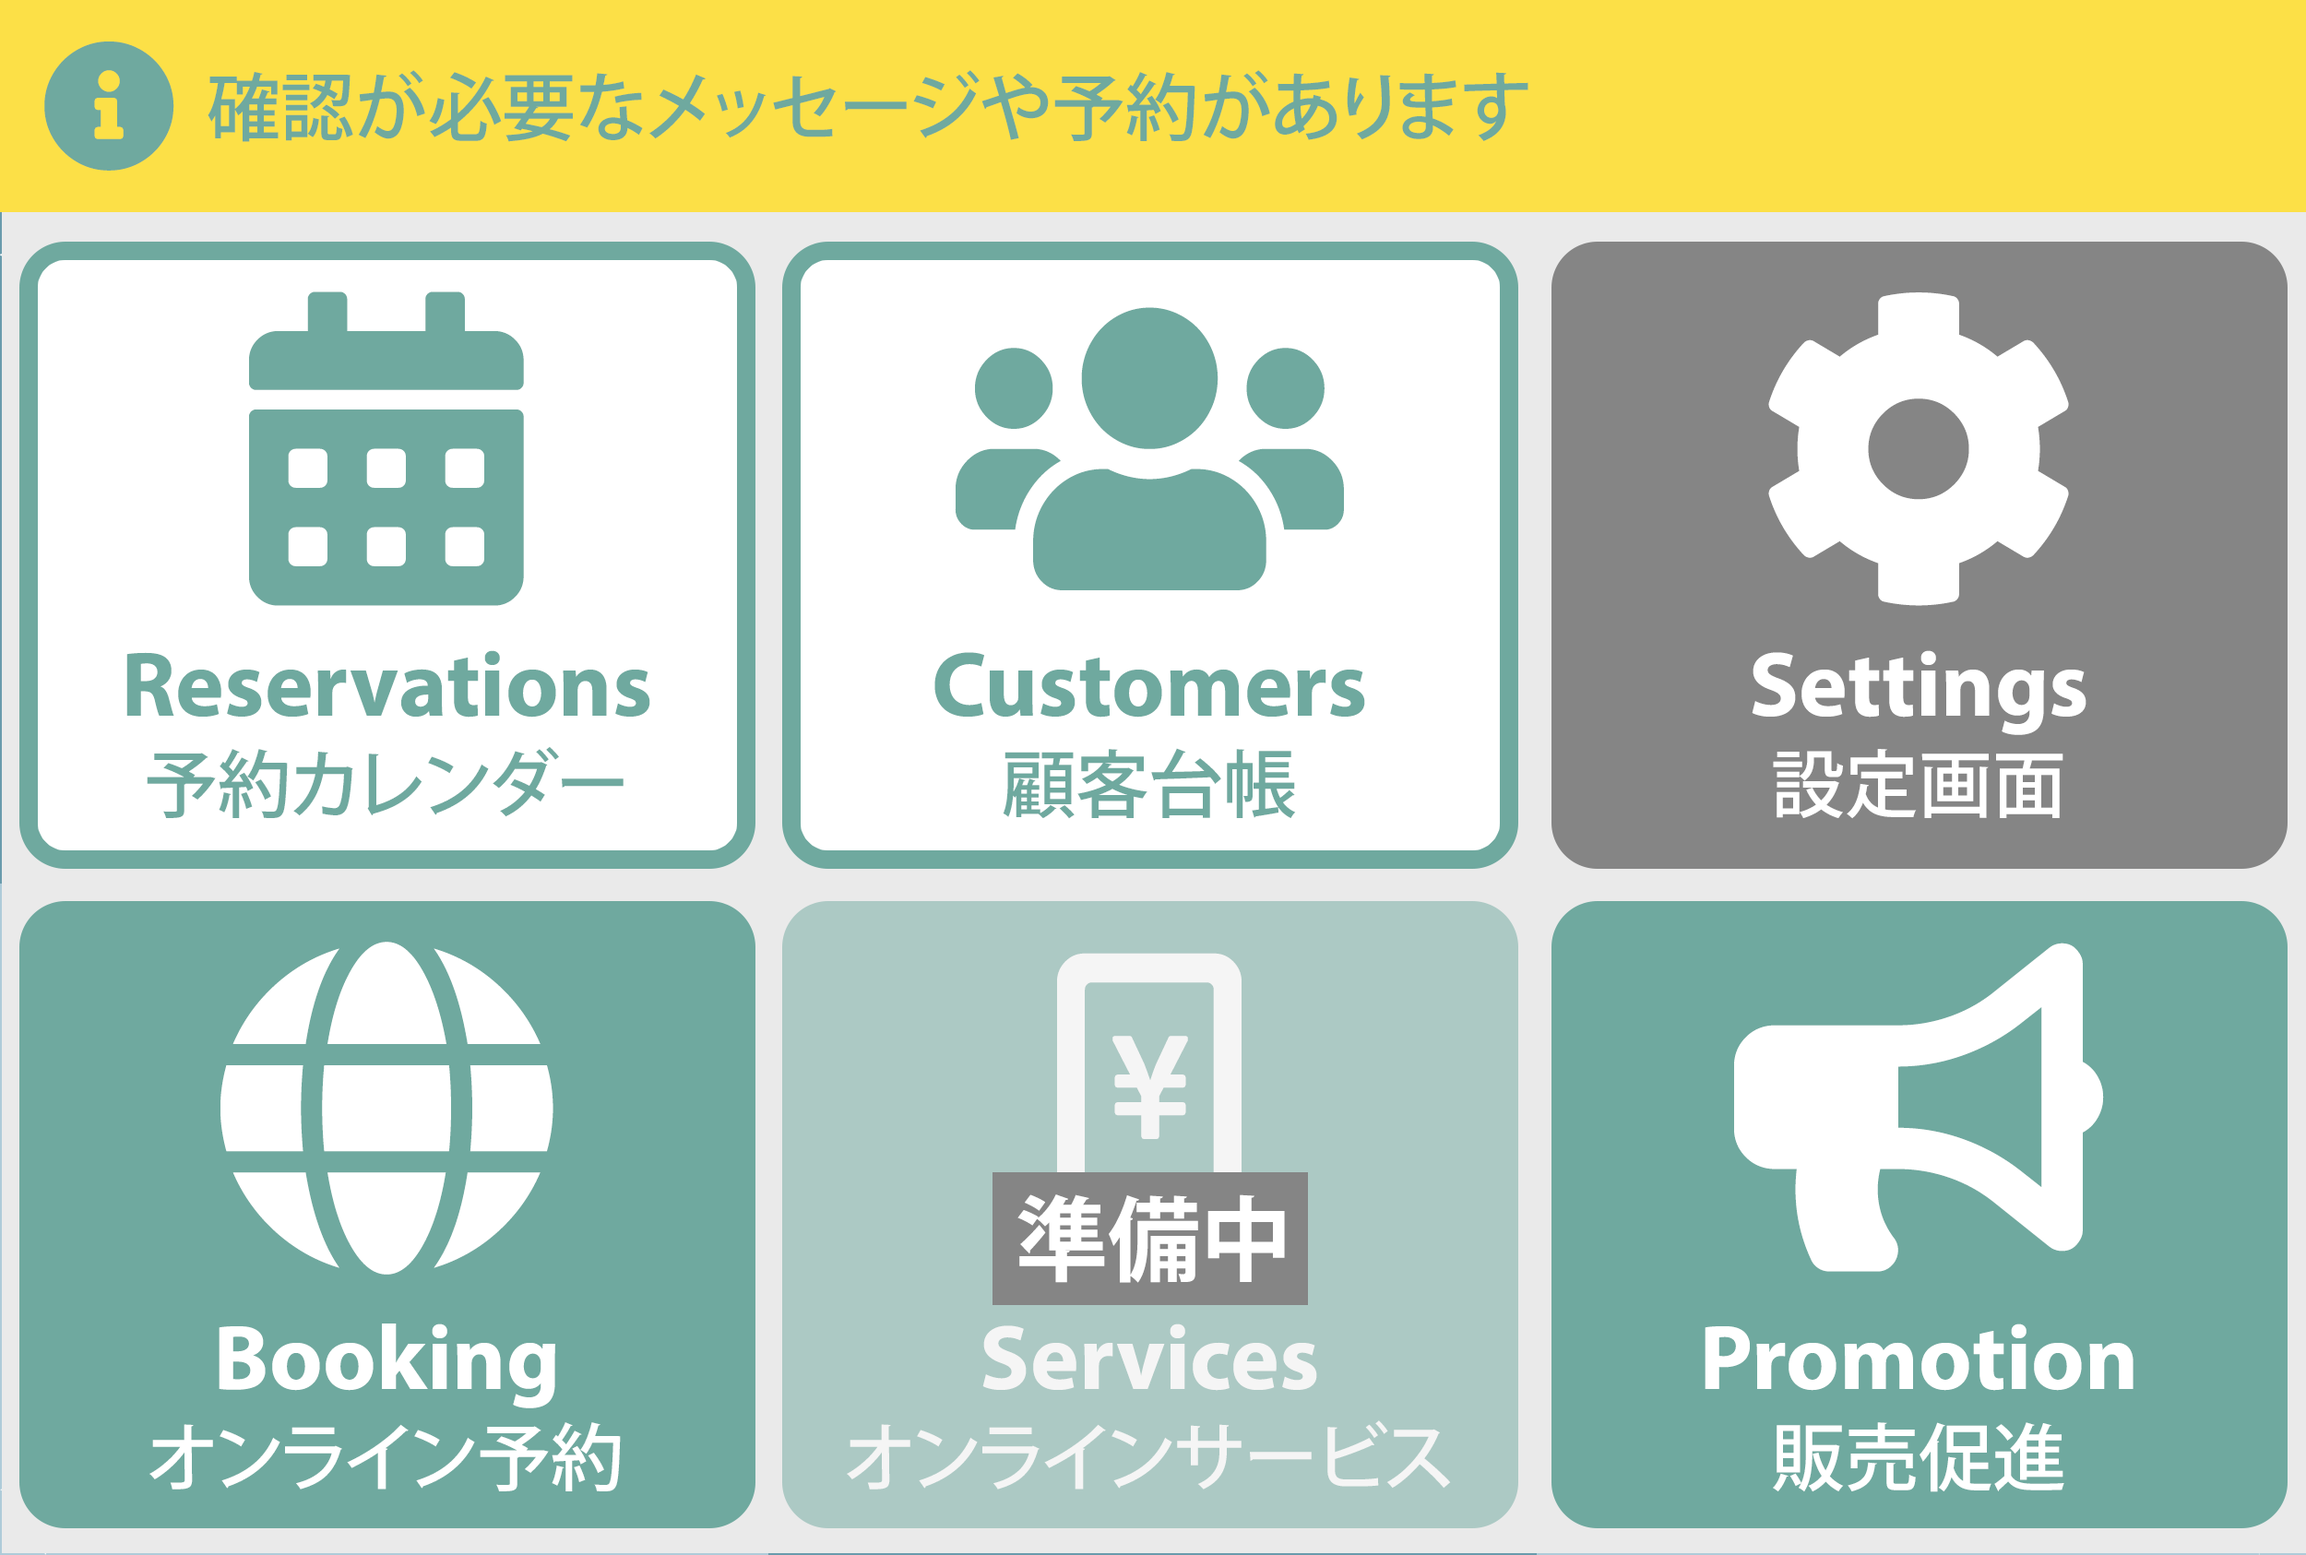
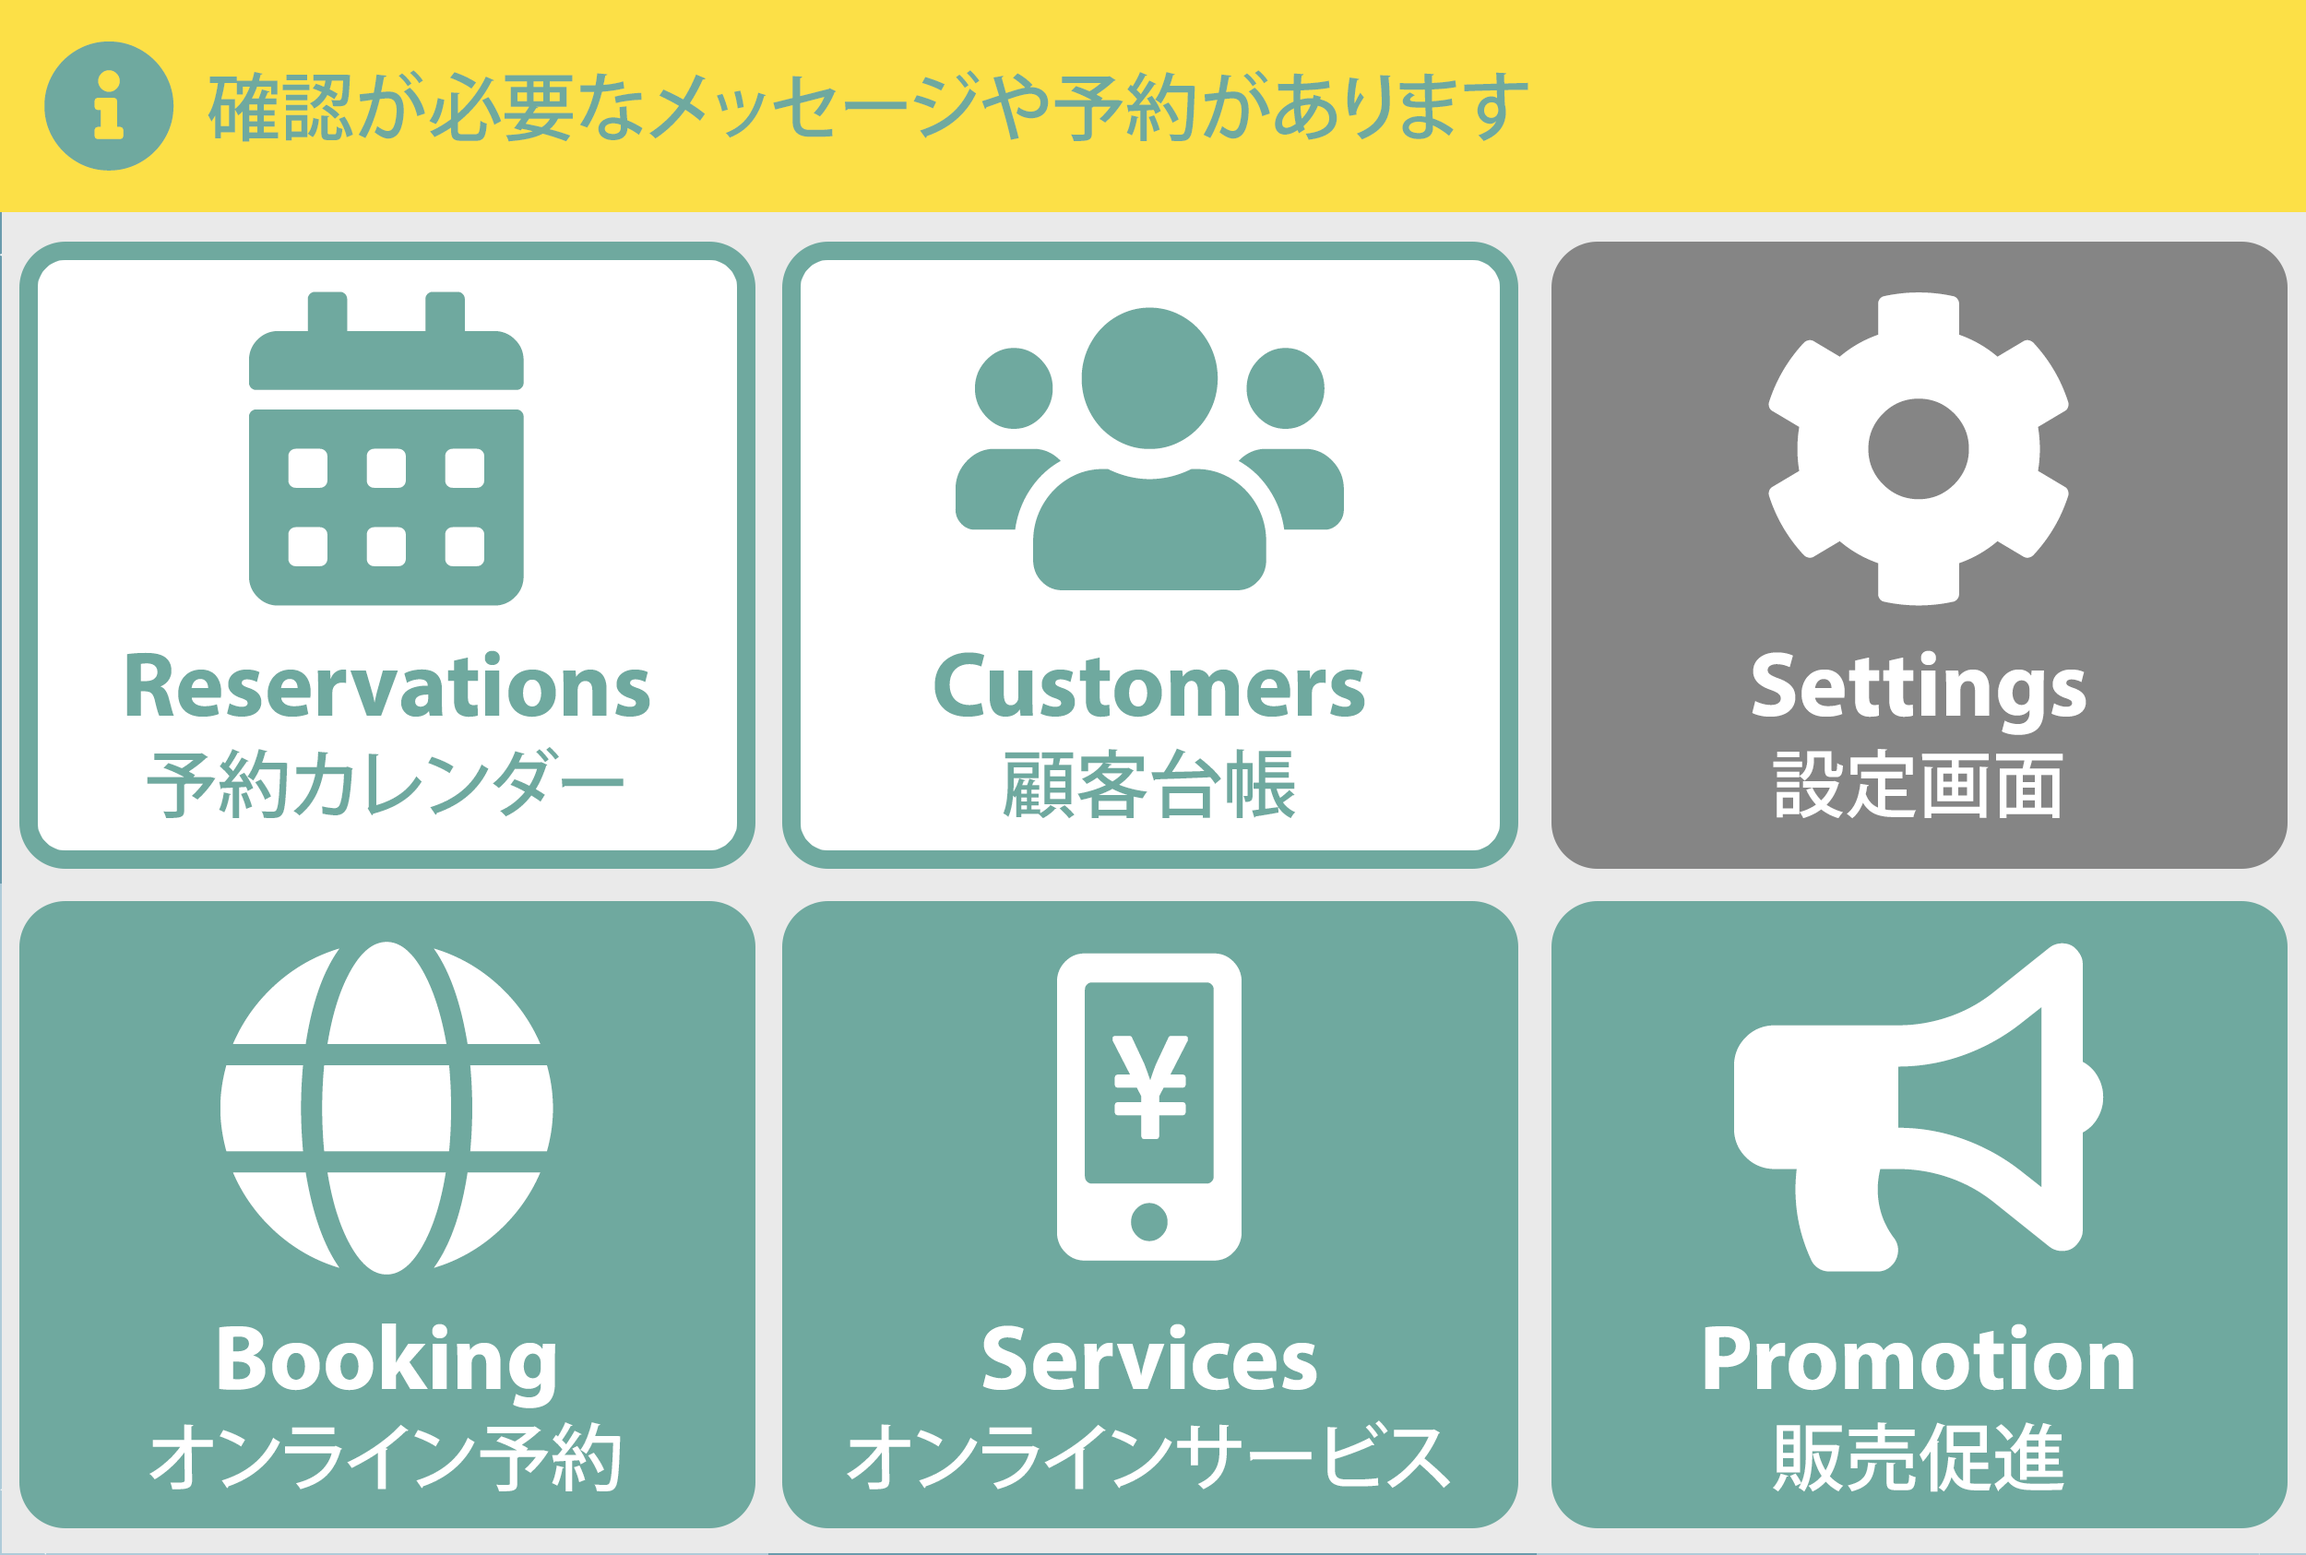
Update user bot dashboard rich menus for new service feature

Changed region(s): [[0.312, 0.5552, 0.6864, 0.987]]

diff --git a/app/interactions/user_bot_lines/rich_menus/dashboard_with_notifications.rb b/app/interactions/user_bot_lines/rich_menus/dashboard_with_notifications.rb
@@ -79,7 +79,7 @@ module UserBotLines
                 "x": 0,
                 "y": 843,
                 "width": 833,
-                "height": 958
+                "height": 728
               },
               "action": LineActions::Postback.template(
                 action: UserBotLines::Actions::SwitchRichMenu.class_name,
@@ -89,12 +89,27 @@ module UserBotLines
               )
             },
             {
+              # 5
+              "bounds": {
+                "x": 834,
+                "y": 843,
+                "width": 833,
+                "height": 728
+              },
+              "action": LineActions::Postback.template(
+                action: UserBotLines::Actions::SwitchRichMenu.class_name,
+                enabled: true,
+                params: { rich_menu_key: UserBotLines::RichMenus::OnlineService::KEY },
+                displayText: false
+              )
+            },
+            {
               # 6
               "bounds": {
                 "x": 1667,
                 "y": 843,
                 "width": 833,
-                "height": 843
+                "height": 728
               },
               "action": LineActions::Postback.template(
                 action: UserBotLines::Actions::SwitchRichMenu.class_name,
